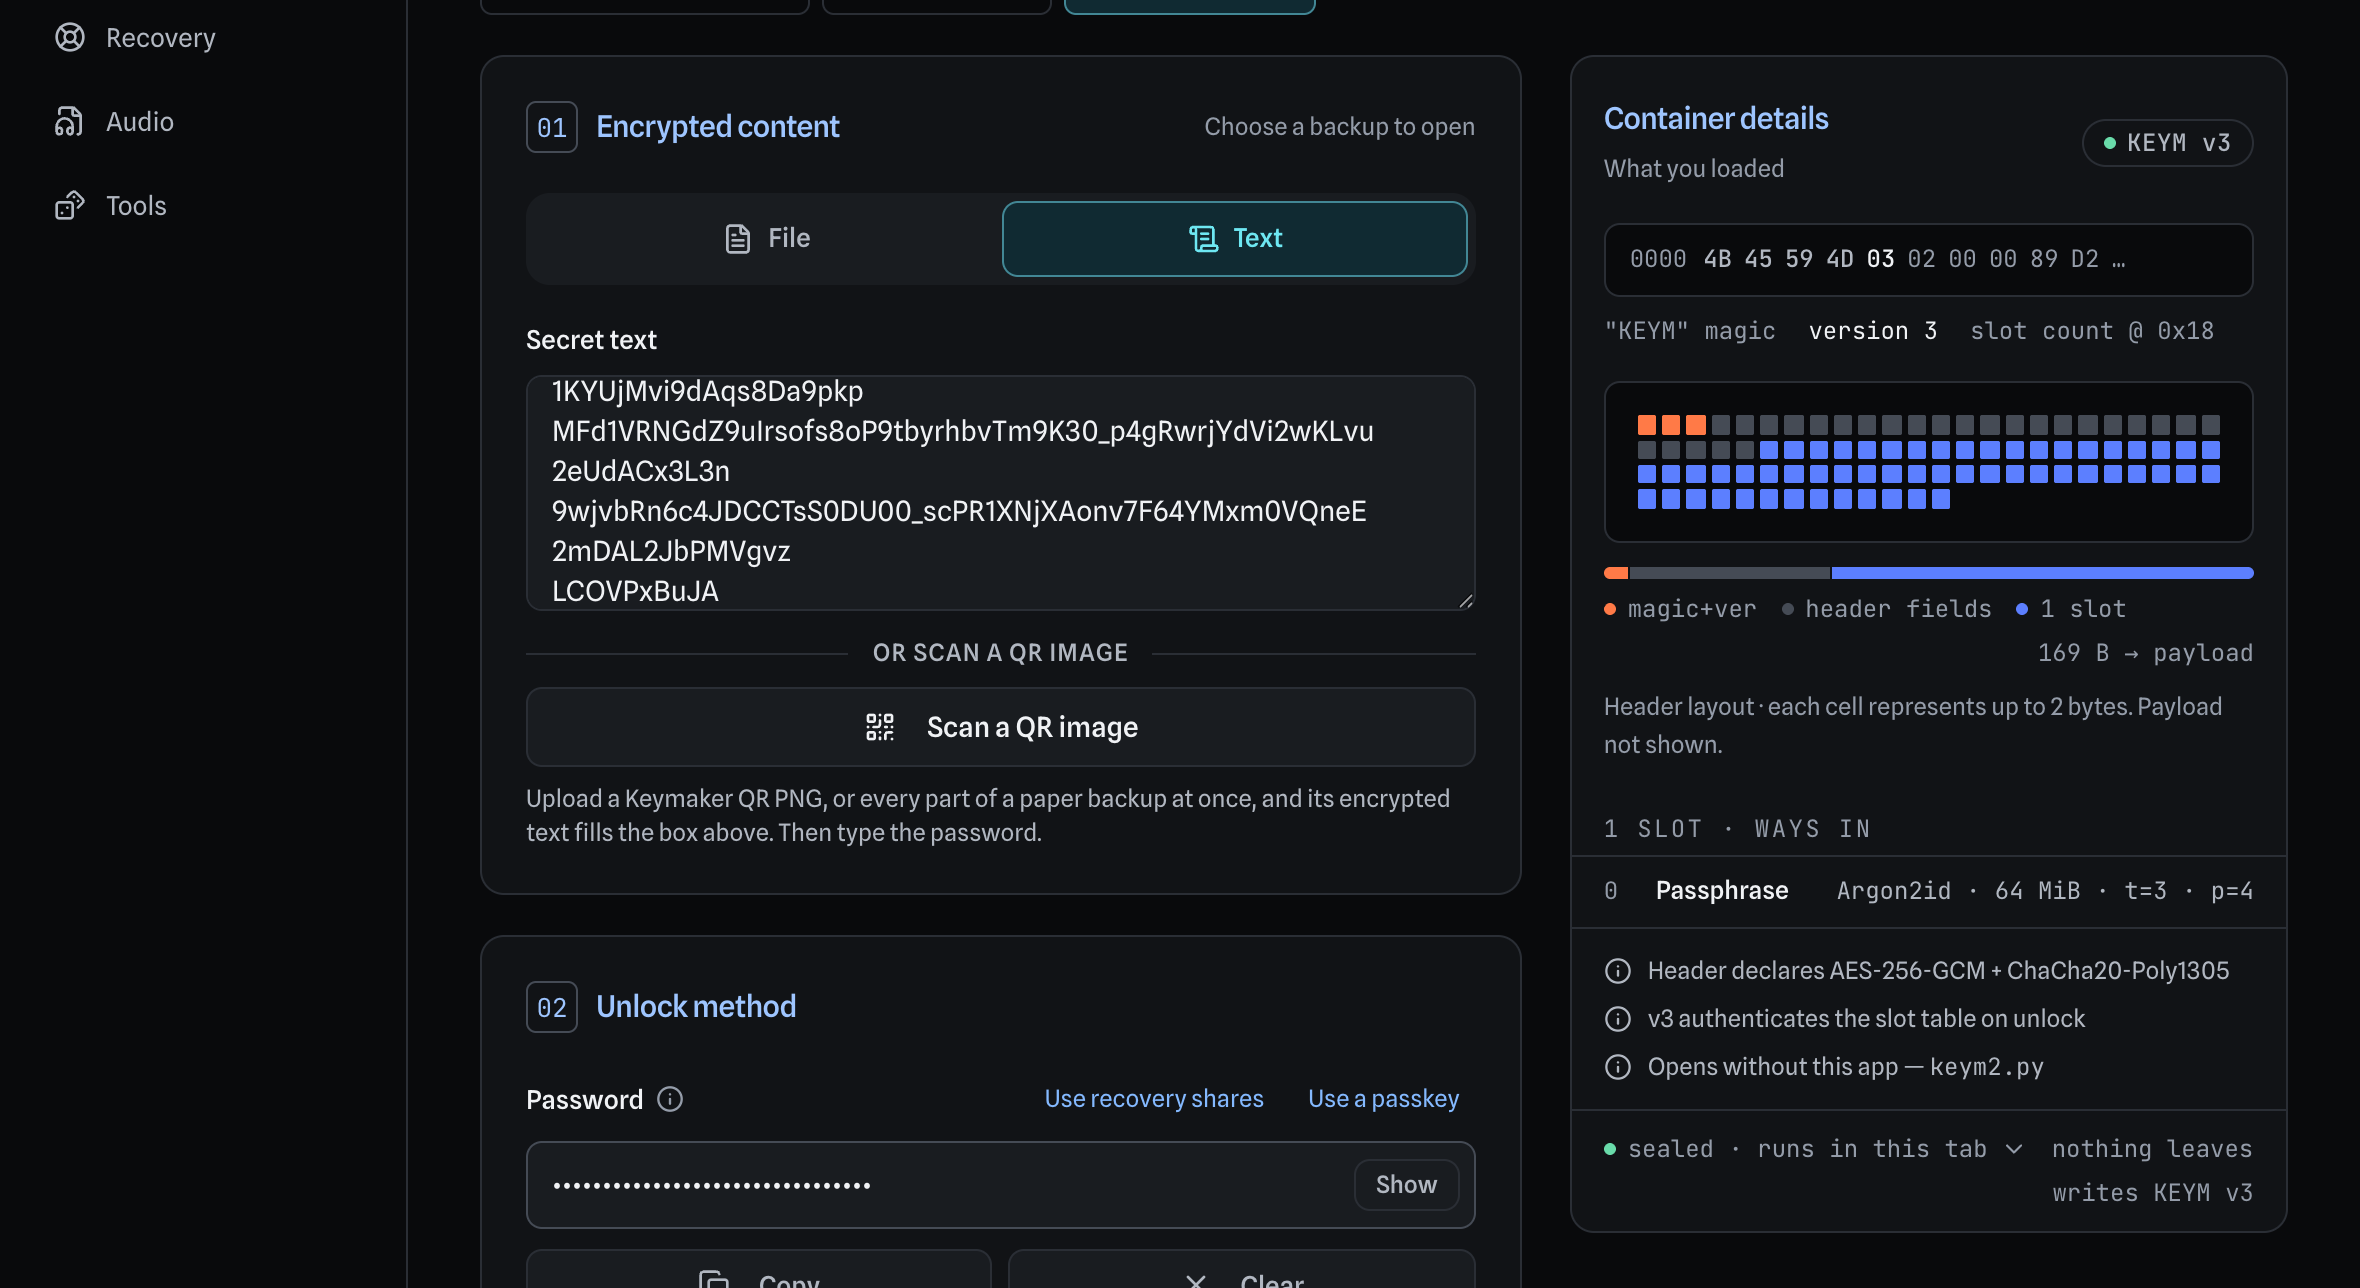
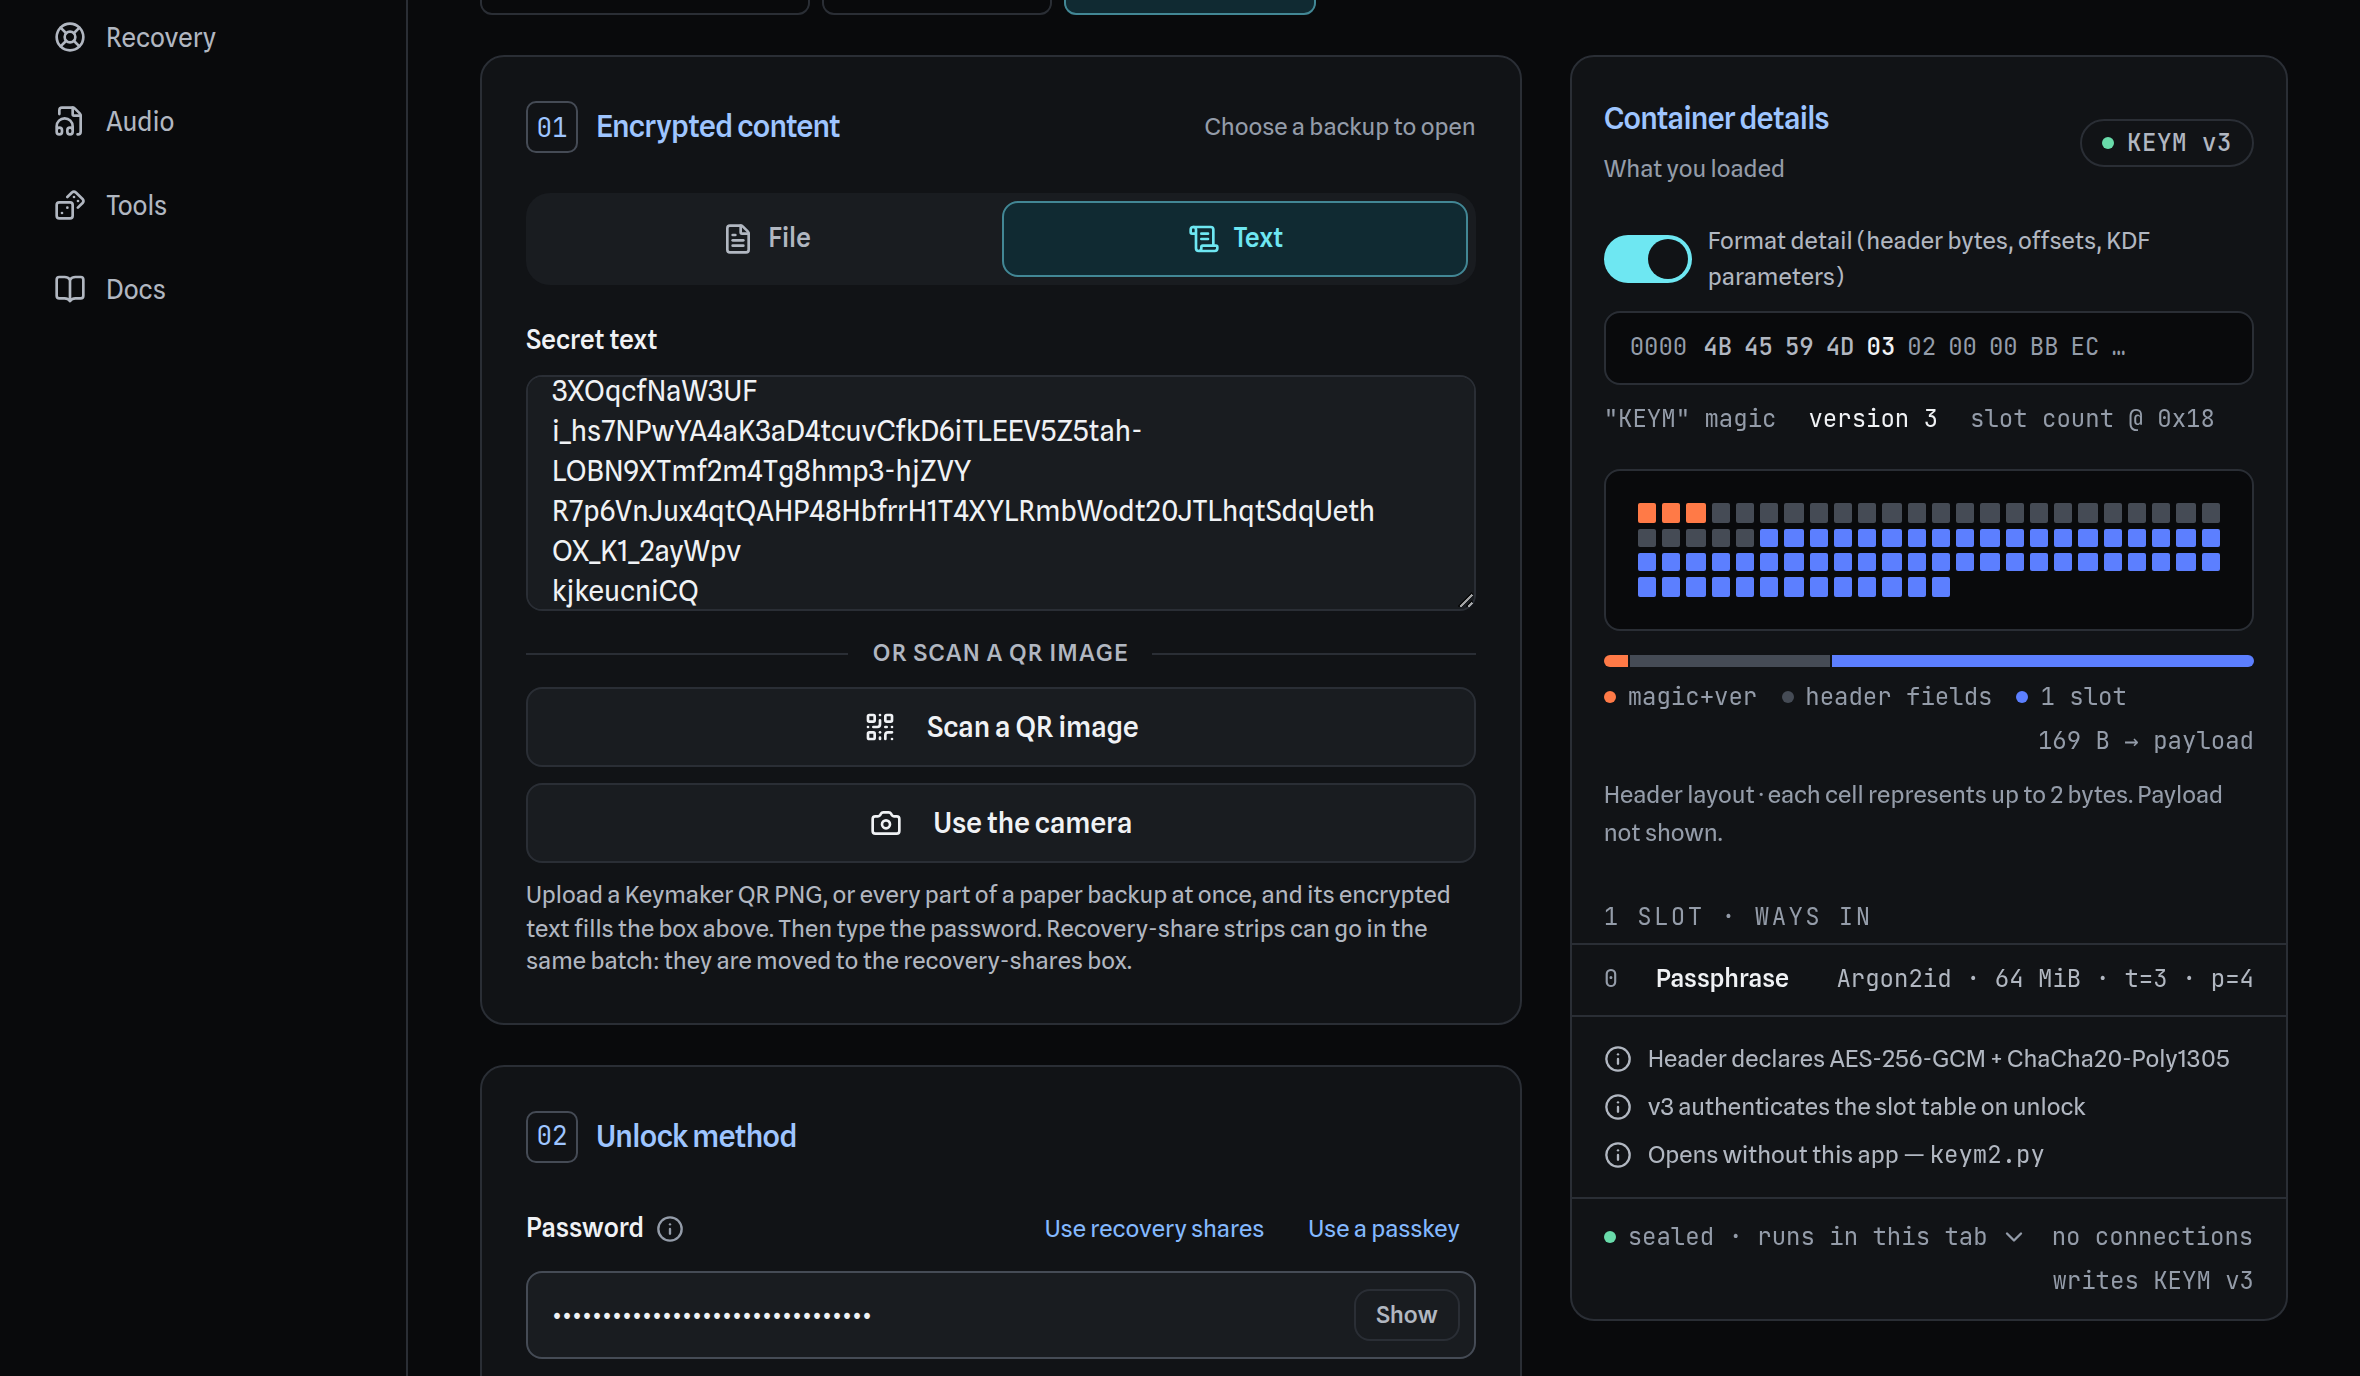
Recapture the screenshots and write the Section 06 usability notes
Section 06, part g. capture-screenshots.mjs recaptures every README and
walkthrough shot from the production export, and now also:
- takes 07-decrypt-detection.png with Format detail on, since the README
  says it shows the parameters read back from the header;
- adds walkthrough-5-steps.png, placed in WALKTHROUGH.md Part 2 with
  what each step state means;
- adds 13-recovery-tested.png and 14-verify-stale.png for the notes.

docs/reports/USABILITY-2026-09-29.md records one reviewer reading the
captured screens: one defect found and fixed, six copy and layout
findings left open with a recommendation each.

The fixed defect: after testing a backup on the Decrypt tab, the
Recovery tab said the Encrypt form's content had changed. The input
type, text box and chosen file are shared with the Decrypt tab, so its
input was read as the Encrypt form's. Content and input type are now
compared only while the form is on the Encrypt tab.
recovery-test-keeps.spec.ts checks the Recovery tab after a text-mode
and a file-mode test.

Claude-Session: https://claude.ai/code/session_01GbCLpWTtk1prQYV8z6rYHr

diff --git a/src/components/encryptor/use-encryptor-state.ts b/src/components/encryptor/use-encryptor-state.ts
@@ -2952,11 +2952,22 @@ export function useEncryptorState() {
   }), [inputType, kdfChoice, argonMemoryMiB, argonTimeCost, argonParallelism, cipherChoice, hideSize, policy]);
   const backupDiffers = useMemo(() => {
     if (workflow.phase !== "created") return null;
-    const changes: string[] = settingsChanges(workflow.sealed, currentSettings);
-    const newContent = inputType === 'file' ? file !== null : textSecret.length > 0;
+    // Section 06g. The input type, the text box and the chosen file are shared
+    // with the Decrypt tab. While the form is there, testing this backup, they
+    // hold the Decrypt side's input, and reading them as the Encrypt form's
+    // reported a change nobody made ("content", "input type"). Going back to
+    // Encrypt restores the backup's input type and clears the box, so they are
+    // compared only there. The settings (KDF, cipher, size hiding, ways in)
+    // belong to the Encrypt form wherever the page is, so they always count.
+    const onEncrypt = mode === 'encrypt';
+    const changes: string[] = settingsChanges(workflow.sealed, {
+      ...currentSettings,
+      inputType: onEncrypt ? currentSettings.inputType : workflow.sealed.inputType,
+    });
+    const newContent = onEncrypt && (inputType === 'file' ? file !== null : textSecret.length > 0);
     if (newContent) changes.unshift("content");
     return changes.length > 0 ? changes : null;
-  }, [workflow, currentSettings, inputType, file, textSecret]);
+  }, [workflow, currentSettings, mode, inputType, file, textSecret]);
   const exportsStarted = useMemo(() => latestExports(workflow), [workflow]);
   /**
    * Section 06d. What has changed since the verify on screen checked its

diff --git a/tests/browser/recovery-test-keeps.spec.ts b/tests/browser/recovery-test-keeps.spec.ts
@@ -50,6 +50,9 @@ test("testing from the Recovery tab keeps the backup, and counts as a recovery t
   await tab(page, "Recovery").click();
   await expect(page.getByText(/No newly created backup/)).toHaveCount(0);
   await expect(visible(page.getByTestId("recovery-test"))).toContainText(/Verified with the password at \d{1,2}[:.]\d{2}/);
+  // The Decrypt tab's text box holds the pasted container; that is not a
+  // change to the Encrypt form (Section 06g, found in the screenshots).
+  await expect(page.getByTestId("recovery-stale"), "the Decrypt side's input read as a change").toHaveCount(0);
 
   // And the Encrypt tab has it back as it was: receipt, container, steps.
   await tab(page, "Encrypt").click();
@@ -71,6 +74,10 @@ test("verifying the downloaded file checks the saved copy", async ({ page }) => 
   await tab(page, "Decrypt").click();
   await page.locator("#decrypt-file").setInputFiles({ name: "backup.keym", mimeType: "application/octet-stream", buffer: saved });
   await verifyOnDecrypt(page);
+  // File mode on the Decrypt tab, for a Text-mode backup: neither the input
+  // type nor the loaded file is a change to the Encrypt form.
+  await tab(page, "Recovery").click();
+  await expect(page.getByTestId("recovery-stale"), "the Decrypt side's input read as a change").toHaveCount(0);
 
   await tab(page, "Encrypt").click();
   await expect(step(page, "saved-copy")).toHaveAttribute("data-state", "done");

diff --git a/docs/reports/USABILITY-2026-09-29.md b/docs/reports/USABILITY-2026-09-29.md
@@ -1,0 +1,55 @@
+# Keymaker Section 06 usability notes
+
+**Date:** 2026-09-29 · **Build:** the production export of the Section 06 branch
+(parts a to f) · **Method:** `scripts/capture-screenshots.mjs` drives the built
+page in headless Chromium at 1180 CSS wide, device scale 2, dark scheme, reduced
+motion, and one reviewer read every captured screen along that scripted path.
+This is an inspection of the screens, not a study with users: nothing here says
+how a first-time owner actually behaves, only what the page shows them.
+
+---
+
+## What the screens show
+
+| Shot | Where it is used | What it shows |
+|---|---|---|
+| `01-landing.png` | README | The Encrypt tab on first visit. The six steps sit above the container preview, content is **Next**, the rest **To do**. Format detail is off. |
+| `walkthrough-3-container.png` | WALKTHROUGH, step 4 | The receipt after sealing: "Protected by Argon2id · AES-256-GCM + ChaCha20-Poly1305", names without parameters. |
+| `walkthrough-4-verified.png` | WALKTHROUGH, Part 2 | The verify result, with the format line trimmed to "KEYM v3 · Argon2id · …". |
+| `walkthrough-5-steps.png` | WALKTHROUGH, Part 2 (new) | Back on Encrypt after that verify: **Prepare recovery** done, **Check saved copy** next, because nothing was saved. |
+| `07-decrypt-detection.png` | README | The container pane on the Decrypt tab **with Format detail on**, since the README text promises the parameters read back from the header. Every other shot has it off. |
+| `13-recovery-tested.png` | this report | The Recovery tab after the walkthrough's verify: the backup is still there, and the recovery test reads "Verified with the password at …". |
+| `14-verify-stale.png` | this report | A password typed after a verify: the green result has given way to "Changed since: credentials". |
+
+The other eleven shots were recaptured from the same build but not read closely,
+since Section 06 does not touch the panels they frame. All 18 are 2360px wide,
+which `npm run test:screenshots` checks.
+
+---
+
+## Findings
+
+| # | Finding | State | Recommendation |
+|---|---|---|---|
+| S1 | **The Recovery tab reported a change nobody made.** After testing the backup on the Decrypt tab, the Recovery tab said "The form on the Encrypt tab has changed since this backup was made (content)". The input type, the text box and the chosen file are shared by the two tabs, so the Decrypt side's input was read as the Encrypt form's. A File-mode test would also have said "input type". | **Fixed in this part.** Content and input type are compared only while the form is on the Encrypt tab; returning there restores both. `recovery-test-keeps.spec.ts` checks the Recovery tab after a text-mode and a file-mode test, and disabling the fix fails both checks. | None. |
+| S2 | **The container pane's first-visit copy promises what it no longer shows.** It says it "itemises the container it will write, header byte by header byte", and its button reads "Show the header it will write". With Format detail off, which is the default since part c, the itemisation shows the ways in and the layout but no header bytes. | Open. | Reword to what is shown ("…itemises the container it will write: its version, its ways in and its layout"), or turn Format detail on when the button is pressed. The first is smaller and keeps one switch in charge. |
+| S3 | **The step grid's rows do not line up.** "Check saved copy" and "Prepare recovery" wrap to two lines at this width, so in the second row "Create" sits higher than its neighbours and the three state words sit at two heights. | Open. | Shorter labels ("Saved copy", "Recovery"), or a grid that aligns the state words on a common row. |
+| S4 | **"Check saved copy" names only half of what completes it.** Its sentence says "Download it or print the paper vault, then check the copy", but not how to check. The two ways are loading the saved file on the Decrypt tab and verifying it, or photographing every printed symbol on the Recovery tab. The walkthrough now says so; the page does not. | Open. | Name both ways in the sentence, or link to the Recovery tab's printout check. |
+| S5 | **"credentials" is the page's word, not the owner's.** The stale-verify notice says "Changed since: credentials" for a newly typed password. | Open, minor. | "password or recovery shares". |
+| S6 | **Long sentences set in monospace.** The Recovery tab's "Saved copy" and "Recovery test" values are full sentences in the monospace data face, which reads slowly at this length. Predates Section 06. | Open, minor. | Body face for sentences; keep monospace for values such as byte counts. |
+| S7 | **The Format detail label wraps.** "Format detail (header bytes, offsets, KDF parameters)" takes two lines in the pane header at 1180 wide. | Open, minor. | Keep "Format detail" as the label and move the list into a tooltip or the pane's help text. |
+
+S1 was a defect in behaviour and is fixed here. S2 to S7 are copy and layout;
+each changes what an owner reads, so each is left for a reviewed change of its
+own rather than folded into the screenshots.
+
+---
+
+## What held
+
+- The steps never ran ahead of the evidence in any captured state: after a
+  verify of the page's own copy, recovery was done and the saved copy was not.
+- With Format detail off, the KDF and cipher names, the version and the checks
+  were still on screen in each of the shots read for this report.
+- The receipt, the steps and the recovery test survived the round trip through
+  the Decrypt and Recovery tabs, which is what part e set out to do.

diff --git a/docs/ROADMAP.md b/docs/ROADMAP.md
@@ -1031,7 +1031,7 @@ Both are corrected with the assurance-language work.
 | 9.2 | merged | PR #226, in `main` at `60567ac` (`scripts/verify-transport-test.mts` present) |
 | 9.3 | merged | PR #229, in `main` at `6aff83d` (PR #228 merged into its stacked base, not `main`, so #229 carried the same commit `487f8be`); `encryptKeym2WithSlots` present |
 | 9.4 | merged | PR #227, in `main` at `2adefa3` (`shamirSplit` erases the coefficients it draws) |
-| 9.6 | in_progress | Section 06, the creation workflow. Parts a (evidence), b (visible step order), c (format detail switch), d (verify result bound to its input), e (testing keeps the backup) and f (the lock keeps evidence beside spared shares) below; screenshots and usability notes follow |
+| 9.6 | in_progress | Section 06, the creation workflow. Parts a (evidence), b (visible step order), c (format detail switch), d (verify result bound to its input), e (testing keeps the backup), f (the lock keeps evidence beside spared shares) and g (production screenshots and usability notes) below; the open usability findings follow |
 
 `verified` means the implementation and its automated checks passed. It says
 nothing about an independent review.
@@ -1431,6 +1431,40 @@ fire with no shares and checks that the backup goes. It proves the lock fired
 from the page itself: the warning appears and then goes without a click.
 Reverting the change fails the first test, and keeping the backup on every
 lock fails the second.
+
+### 9.6 The creation workflow (handover Section 06), part g
+
+The production screenshots and usability notes. `scripts/capture-screenshots.mjs`
+recaptures every README and walkthrough shot from the production export, and now
+also:
+
+- takes `07-decrypt-detection.png` with Format detail on, because the README
+  says that shot shows the parameters read back from the header, and turns it
+  off again so every other shot shows a first visit;
+- adds `walkthrough-5-steps.png`, the steps after the walkthrough's own verify,
+  and places it in `docs/WALKTHROUGH.md` Part 2 with what each state means;
+- adds `13-recovery-tested.png` and `14-verify-stale.png` for the notes.
+
+The notes are in `docs/reports/USABILITY-2026-09-29.md`. They are one reviewer
+reading the captured screens, not a study with users.
+
+**Found and fixed.** The first capture of the Recovery tab after a test said the
+Encrypt form had changed since the backup was made ("content"), which nobody
+had done. The input type, the text box and the chosen file are shared with the
+Decrypt tab, and the check read the Decrypt side's input as the Encrypt form's.
+Content and input type are now compared only while the form is on the Encrypt
+tab; the settings still count everywhere.
+
+**Found and left open.** The container pane's first-visit copy promises "header
+byte by header byte" when Format detail is off; the step grid's rows do not
+line up where labels wrap; "Check saved copy" does not say how to check; the
+stale-verify notice says "credentials"; long Recovery-tab sentences are set in
+monospace; the Format detail label wraps. Each changes what an owner reads, so
+each is for its own reviewed change. The report has a recommendation for each.
+
+**Checks.** `recovery-test-keeps.spec.ts` now reads the Recovery tab after a
+text-mode and a file-mode test and requires no change notice; disabling the fix
+fails both checks. `npm run test:screenshots` holds all 18 shots at 2360px.
 
 ---
 

diff --git a/docs/WALKTHROUGH.md b/docs/WALKTHROUGH.md
@@ -116,6 +116,19 @@ Read the size. The panel nudges you about this for a reason:
 Do this **while the original still exists**. A backup you have never opened is a
 hypothesis.
 
+Back on **Encrypt**, the steps above the container preview now say what the page
+knows about this backup:
+
+![The six steps: content, access rule, review and create done, check saved copy next, prepare recovery done](screenshots/walkthrough-5-steps.png)
+
+**Prepare recovery** is done because the verify opened this exact backup: the
+page compares the bytes, so a verify of some other container would not count.
+**Check saved copy** is still next, because nothing has been saved. A download
+or a print only ever reads as started, since the browser does not say whether
+the file was kept. It turns to done when you load the saved file on the Decrypt
+tab and it verifies, or when you photograph every printed symbol on the
+Recovery tab.
+
 ### What to keep, and where
 
 | Keep | Why |

diff --git a/CHANGELOG.md b/CHANGELOG.md
@@ -19,6 +19,10 @@
   only when a rehearsal from the shares has opened it.
 
 ### Fixed
+- **The Recovery tab reported a change nobody made.** After testing a backup on
+  the Decrypt tab, it said the Encrypt form's content had changed, because the
+  two tabs share their input. Content and input type are now compared only on
+  the Encrypt tab.
 - **The auto-lock forgot the backup its spared shares open.** With recovery
   shares on screen, the lock kept the shares but cleared the receipt, the
   steps and a passed rehearsal. It now keeps what is known about that backup
